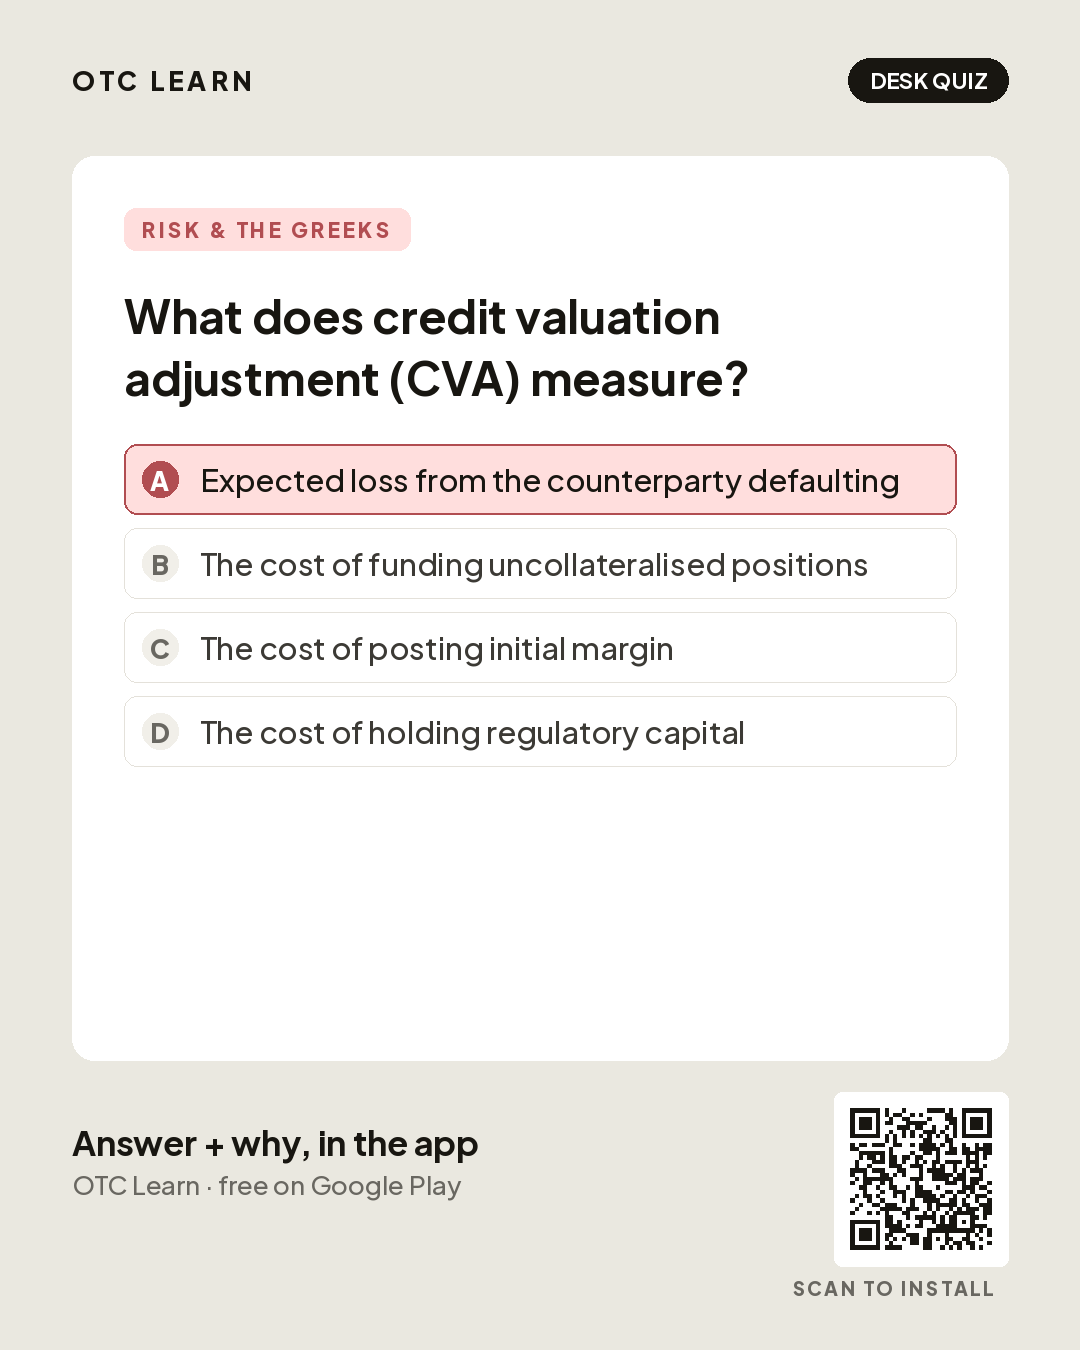
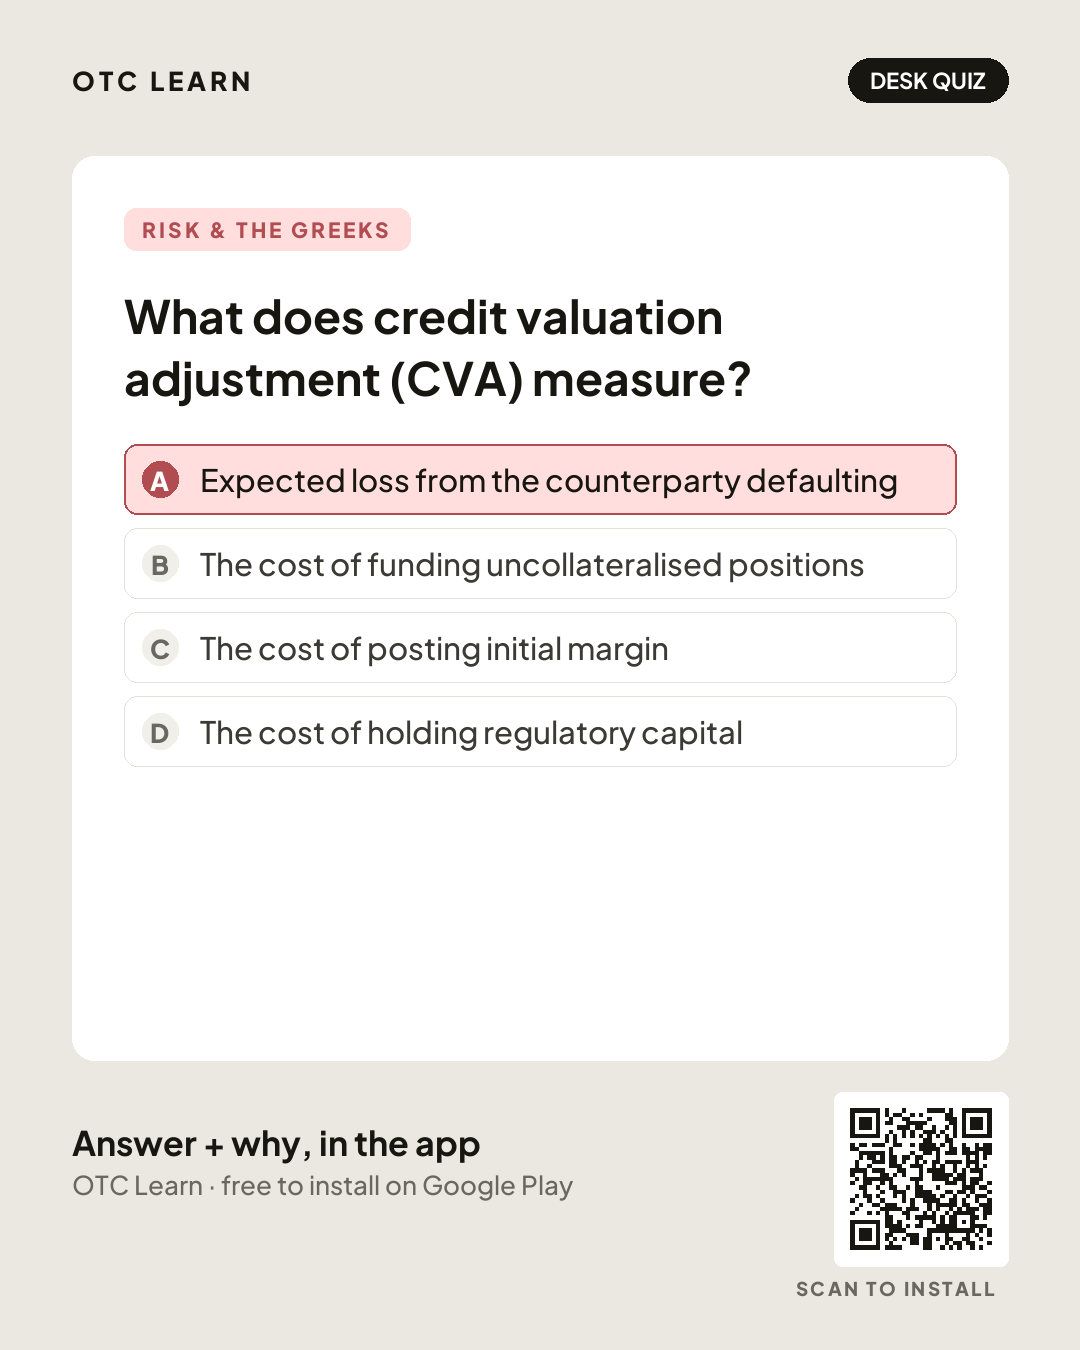
Make the nine loose quiz posters entries in gen2.py
Nine posters were tracked but unreproducible: cs-quiz-05 through 08 and
otc-quiz-05 through 09. They were never gen2.py output -- re-running the
generator produced nothing by those names -- so the files in the repo were the
only copy, and nothing connected the number a poster asserts to the data or the
working behind it. That is the gap bd8eb43 closed for cs-quiz-04 and left open
for the rest.

Each is now an entry in the content block, and each carries its derivation in a
comment beside it: 2.0 x sqrt(10) = 6.32 for the VaR scaling, -7.0 x 0.0050 for
the duration move, 0.08 x 1.5 x 2.0 = 0.24 for DuPont, 83.00 x 1.07 / 1.05 =
84.58 for the forward. The qualitative four say why the wrong answers are the
ones they are -- CVA's three distractors are FVA, MVA and KVA, which is the
whole reason that question works.

**The PNGs are gen2.py's output now, not the originals.** Adding an entry that
renders something subtly different from the committed file would recreate the
drift this is meant to end, so the nine were replaced by what the generator
writes. A clean run reproduces all nine byte for byte, and cs-quiz-04 still
matches. The visible change is the OTC footer: the loose five said "free on
Google Play" where every gen2.py-rendered OTC poster says "free to install on
Google Play", which is the scoped wording POST-BANK.md requires.

**Fonts are why this was not already true.** fetch-fonts.sh pulls from the tip
[…]

diff --git a/marketing/social-v2/gen2.py b/marketing/social-v2/gen2.py
@@ -616,6 +616,51 @@ if __name__ == "__main__":
               "The airline receives $5,100,000",
               "Both sides pay gross: $4.75m and $5.10m"], 1)
 
+    # Spread 140bp against a fixed 100bp coupon: the buyer is underpaying by 40bp
+    # a year for five years, so the buyer settles the difference up front. The
+    # coupon is standardised precisely so this is the only moving part.
+    otc_quiz("otc-quiz-05-cds-upfront.png", "credit",
+             "A 5-year CDS has a standard 100bp coupon but trades at a 140bp spread. Who pays the upfront amount at inception?",
+             ["The protection buyer",
+              "The protection seller",
+              "Nobody: the coupon always equals the traded spread",
+              "The clearing house"], 0)
+
+    # 83.00 x 1.07 / 1.05 = 84.58. The currency with the higher rate trades at a
+    # forward discount, so INR weakens in the forward — covered interest parity,
+    # not a forecast.
+    otc_quiz("otc-quiz-06-fx-forward.png", "fx",
+             "USD/INR spot is 83.00. One-year rates are 5% in USD and 7% in INR. The one-year forward is closest to:",
+             ["81.40", "83.00", "84.60", "86.80"], 2)
+
+    # Initial margin is gross and two-way, segregated with a third party, and may
+    # not be rehypothecated — which is exactly what separates it from variation
+    # margin, and why it cannot be netted against it.
+    otc_quiz("otc-quiz-07-umr-im.png", "risk",
+             "Under the uncleared margin rules, which statement about initial margin is correct?",
+             ["Both parties post it, held with a third-party custodian",
+              "Only the weaker credit posts it",
+              "It is netted against variation margin",
+              "The receiver may freely re-hypothecate it"], 0)
+
+    # A receiver swaption receives fixed. The name says which leg the holder
+    # receives, which is the whole of the question.
+    otc_quiz("otc-quiz-08-receiver-swaption.png", "ir",
+             "A receiver swaption gives its holder the right, but not the obligation, to:",
+             ["Enter a swap receiving the fixed rate",
+              "Enter a swap paying the fixed rate",
+              "Cancel an existing swap at par",
+              "Convert a floating-rate bond to fixed"], 0)
+
+    # CVA is a credit charge, not a funding or capital one. The three wrong
+    # answers are the adjustments it is most often confused with: FVA, MVA, KVA.
+    otc_quiz("otc-quiz-09-cva.png", "risk",
+             "What does credit valuation adjustment (CVA) measure?",
+             ["Expected loss from the counterparty defaulting",
+              "The cost of funding uncollateralised positions",
+              "The cost of posting initial margin",
+              "The cost of holding regulatory capital"], 0)
+
     otc_term("otc-term-01-notional.png", "ir", "Notional",
              "The reference amount interest is calculated on. It is never exchanged in a standard swap.")
     otc_term("otc-term-02-vm.png", "foundations", "Variation margin",
@@ -722,6 +767,31 @@ if __name__ == "__main__":
     cs_quiz("cs-quiz-04-frm-bayes.png", "FRM · Part I",
             "A test for a rare condition has 95% sensitivity and 95% specificity. The condition affects 1% of the population. Given a positive result, the probability the condition is present is closest to:",
             ["16%", "48%", "85%", "95%"], 0)
+
+    # Square root of time: 2.0 x sqrt(10) = 6.32. The scaling holds only because
+    # the question grants i.i.d. normal returns with zero mean, which is the
+    # assumption the examiners are testing rather than the arithmetic.
+    cs_quiz("cs-quiz-05-frm-var-scaling.png", "FRM · Part I",
+            "A portfolio has a 1-day 99% VaR of $2.0m. Assuming i.i.d. normal returns with zero mean, the 10-day 99% VaR is closest to:",
+            ["$2.0m", "$4.5m", "$6.3m", "$20.0m"], 2)
+    # -7.0 x 0.0050 = -3.5%. Modified duration is already the percentage change
+    # per 100bp, so the only trap is the sign and the decimal place.
+    cs_quiz("cs-quiz-06-cfa-duration.png", "CFA · Level I",
+            "A bond has a modified duration of 7.0. If its yield rises by 50 bps, the approximate percentage change in price is:",
+            ["+3.5%", "-3.5%", "-0.35%", "-7.0%"], 1)
+    # ES is coherent; VaR fails subadditivity, which is the one property of the
+    # four that it cannot be relied on to satisfy. See the glossary poster.
+    cs_quiz("cs-quiz-07-frm-es.png", "FRM · Part I",
+            "Which of the following risk measures is coherent, because it always satisfies subadditivity?",
+            ["Value at Risk (VaR)",
+             "Expected shortfall (ES)",
+             "Standard deviation of returns",
+             "The 95th-percentile loss"], 1)
+    # DuPont, three-factor: 0.08 x 1.5 x 2.0 = 0.24. Margin x turnover gives ROA,
+    # and the equity multiplier levers it up to ROE.
+    cs_quiz("cs-quiz-08-cfa-dupont.png", "CFA · Level I",
+            "A company has a net profit margin of 8%, asset turnover of 1.5 and an equity multiplier of 2.0. Its ROE is:",
+            ["12%", "16%", "24%", "30%"], 2)
 
     cs_glossary("cs-glossary.png", [
         ("Value at Risk", "VaR",

diff --git a/marketing/social-v2/README.md b/marketing/social-v2/README.md
@@ -24,3 +24,18 @@ COUNTDOWN_ON=2026-10-08 python3 gen2.py
 
 The target is the opening of GARP's FRM Part I window (14 November 2026); Part II
 opens 21 November.
+
+## Reproducibility
+
+Every poster here is an entry in `gen2.py`'s content block, and re-running the
+generator rewrites it byte for byte. A poster that asserts a number carries the
+derivation in a comment beside the entry, so the claim and its working are read
+and changed together. The two dated `cs-frm-countdown-YYYY-MM-DD.png` files are
+the only exceptions, and only in name: they are archived `COUNTDOWN_ON` renders.
+
+The fonts are the one thing this repo does not pin. `fetch-fonts.sh` pulls the
+four variable faces from the tip of Google Fonts, which moves, so a poster
+rendered against an older build of a face no longer comes back byte for byte
+even though nothing here changed — the September posters are in that position.
+Re-rendering one brings it back into line, which is also the reason not to
+re-render a poster you are happy with just because you are in the directory.
